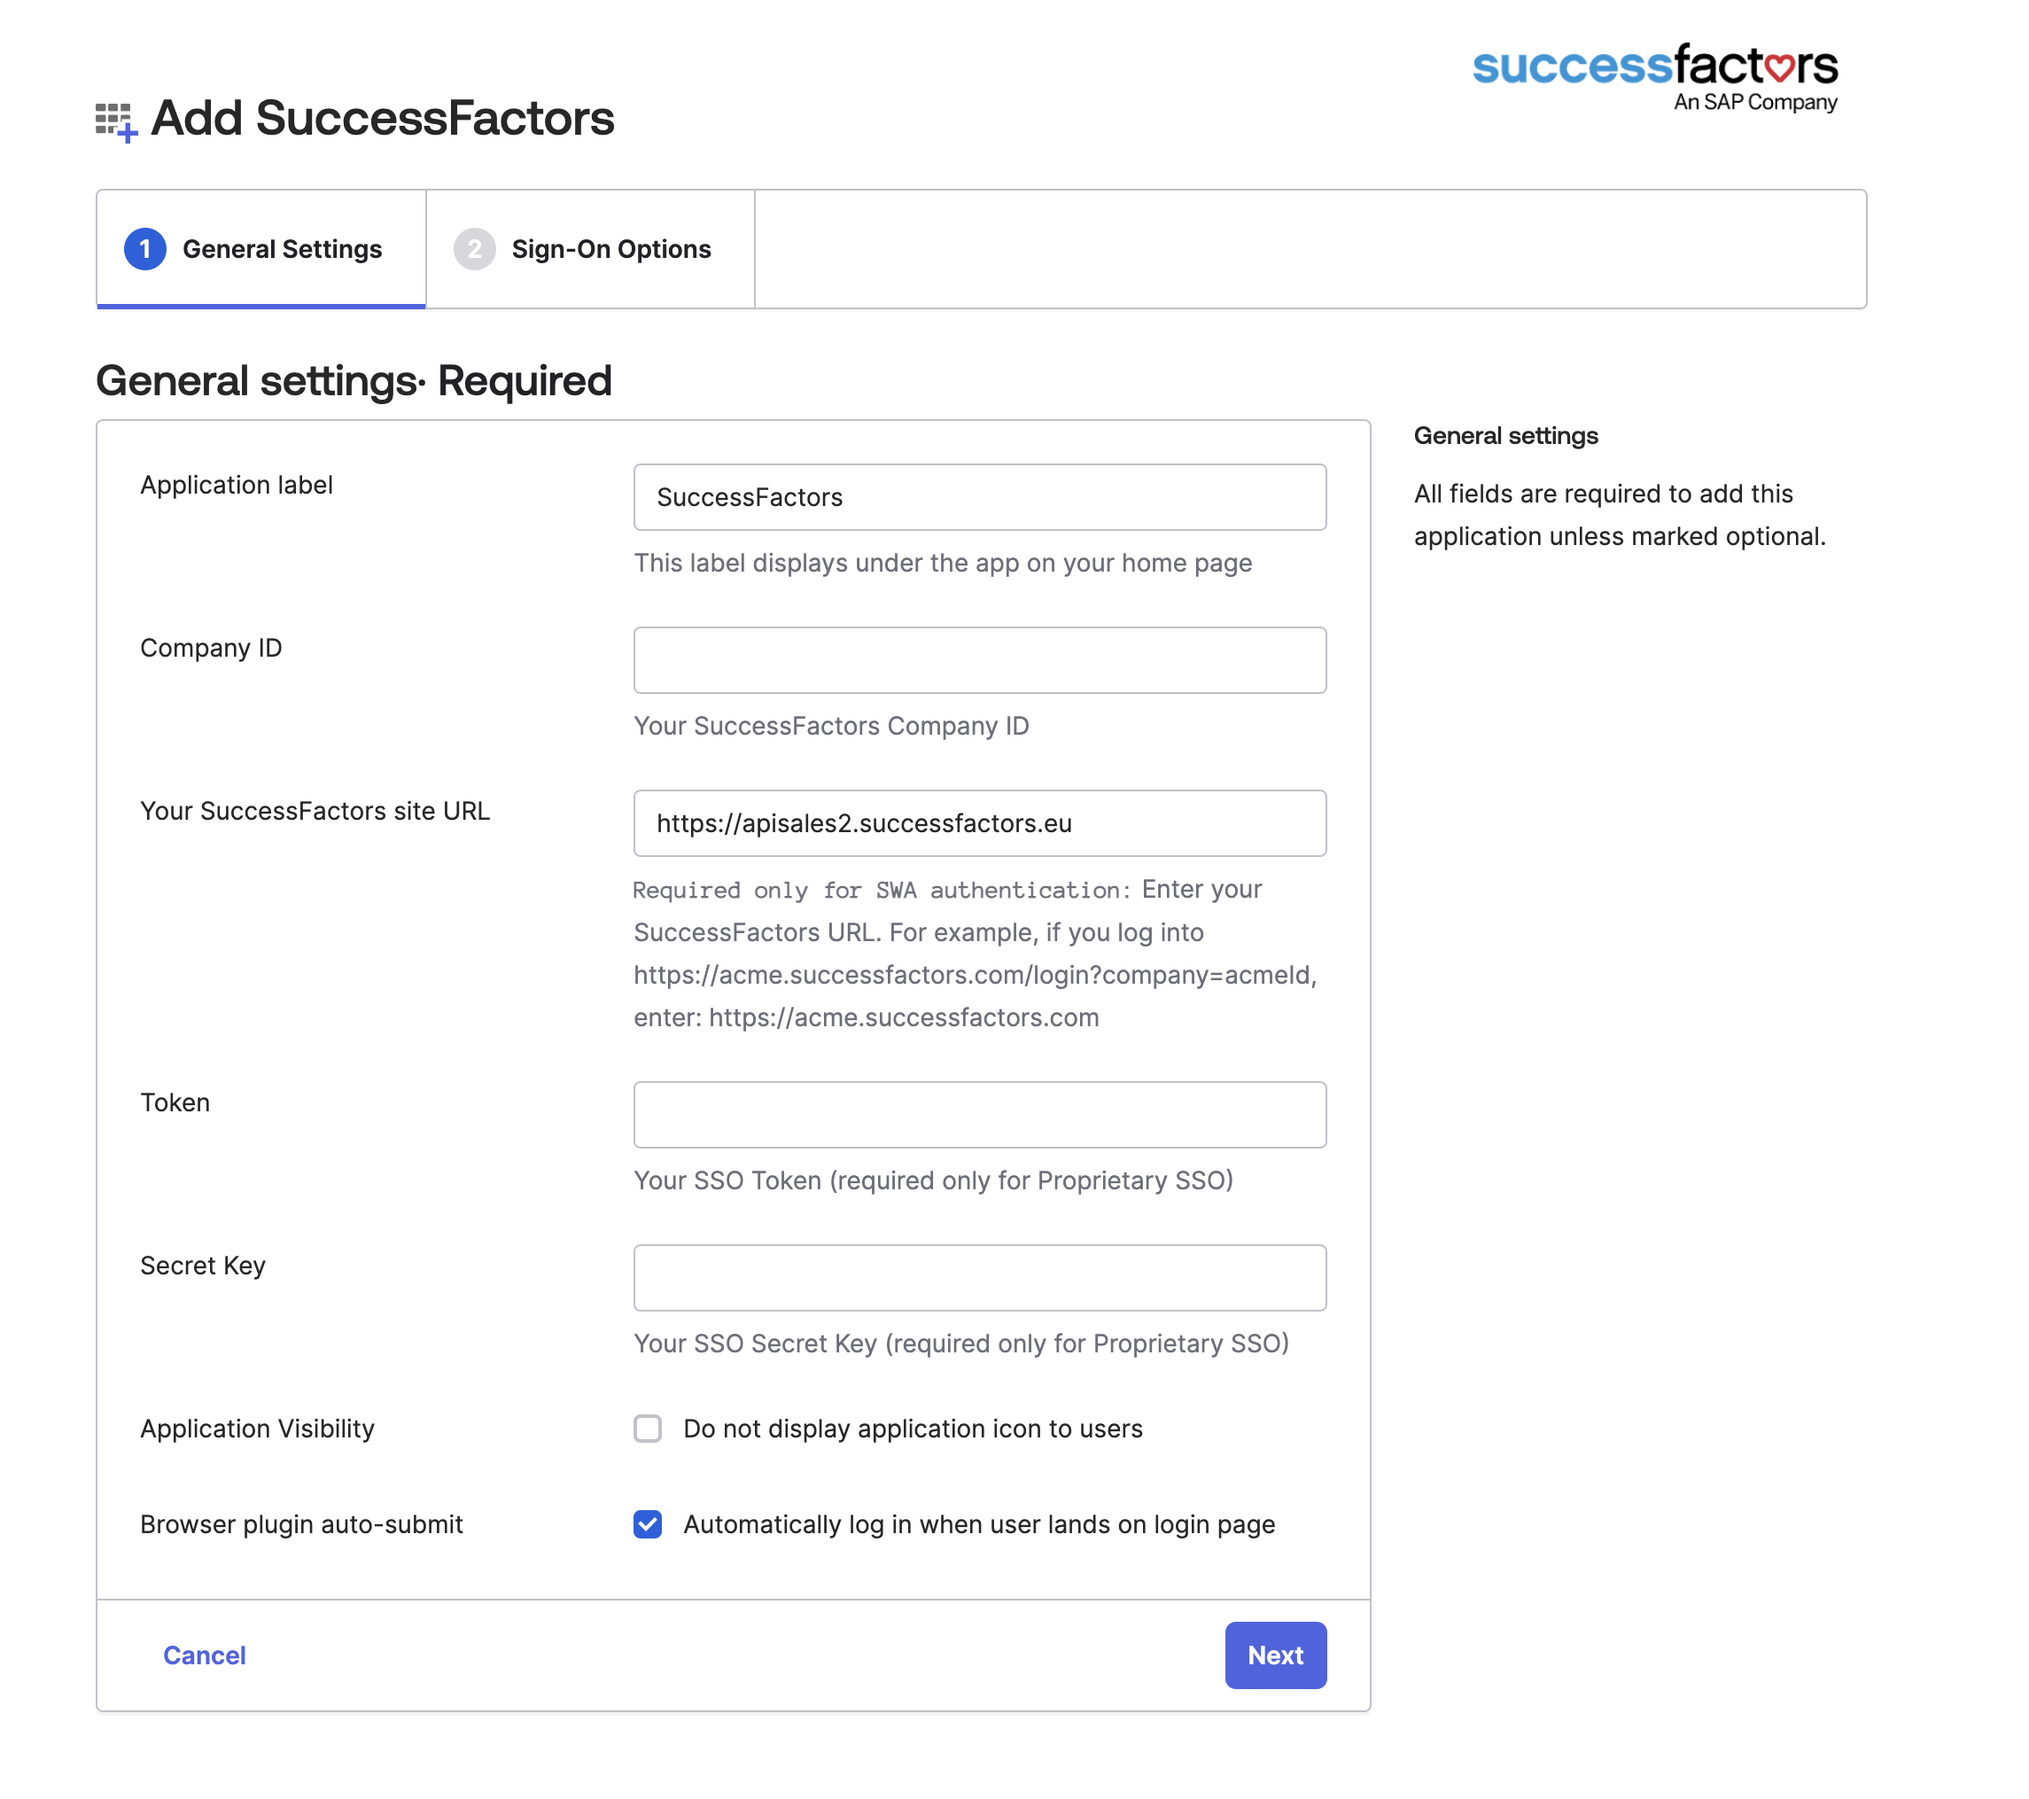
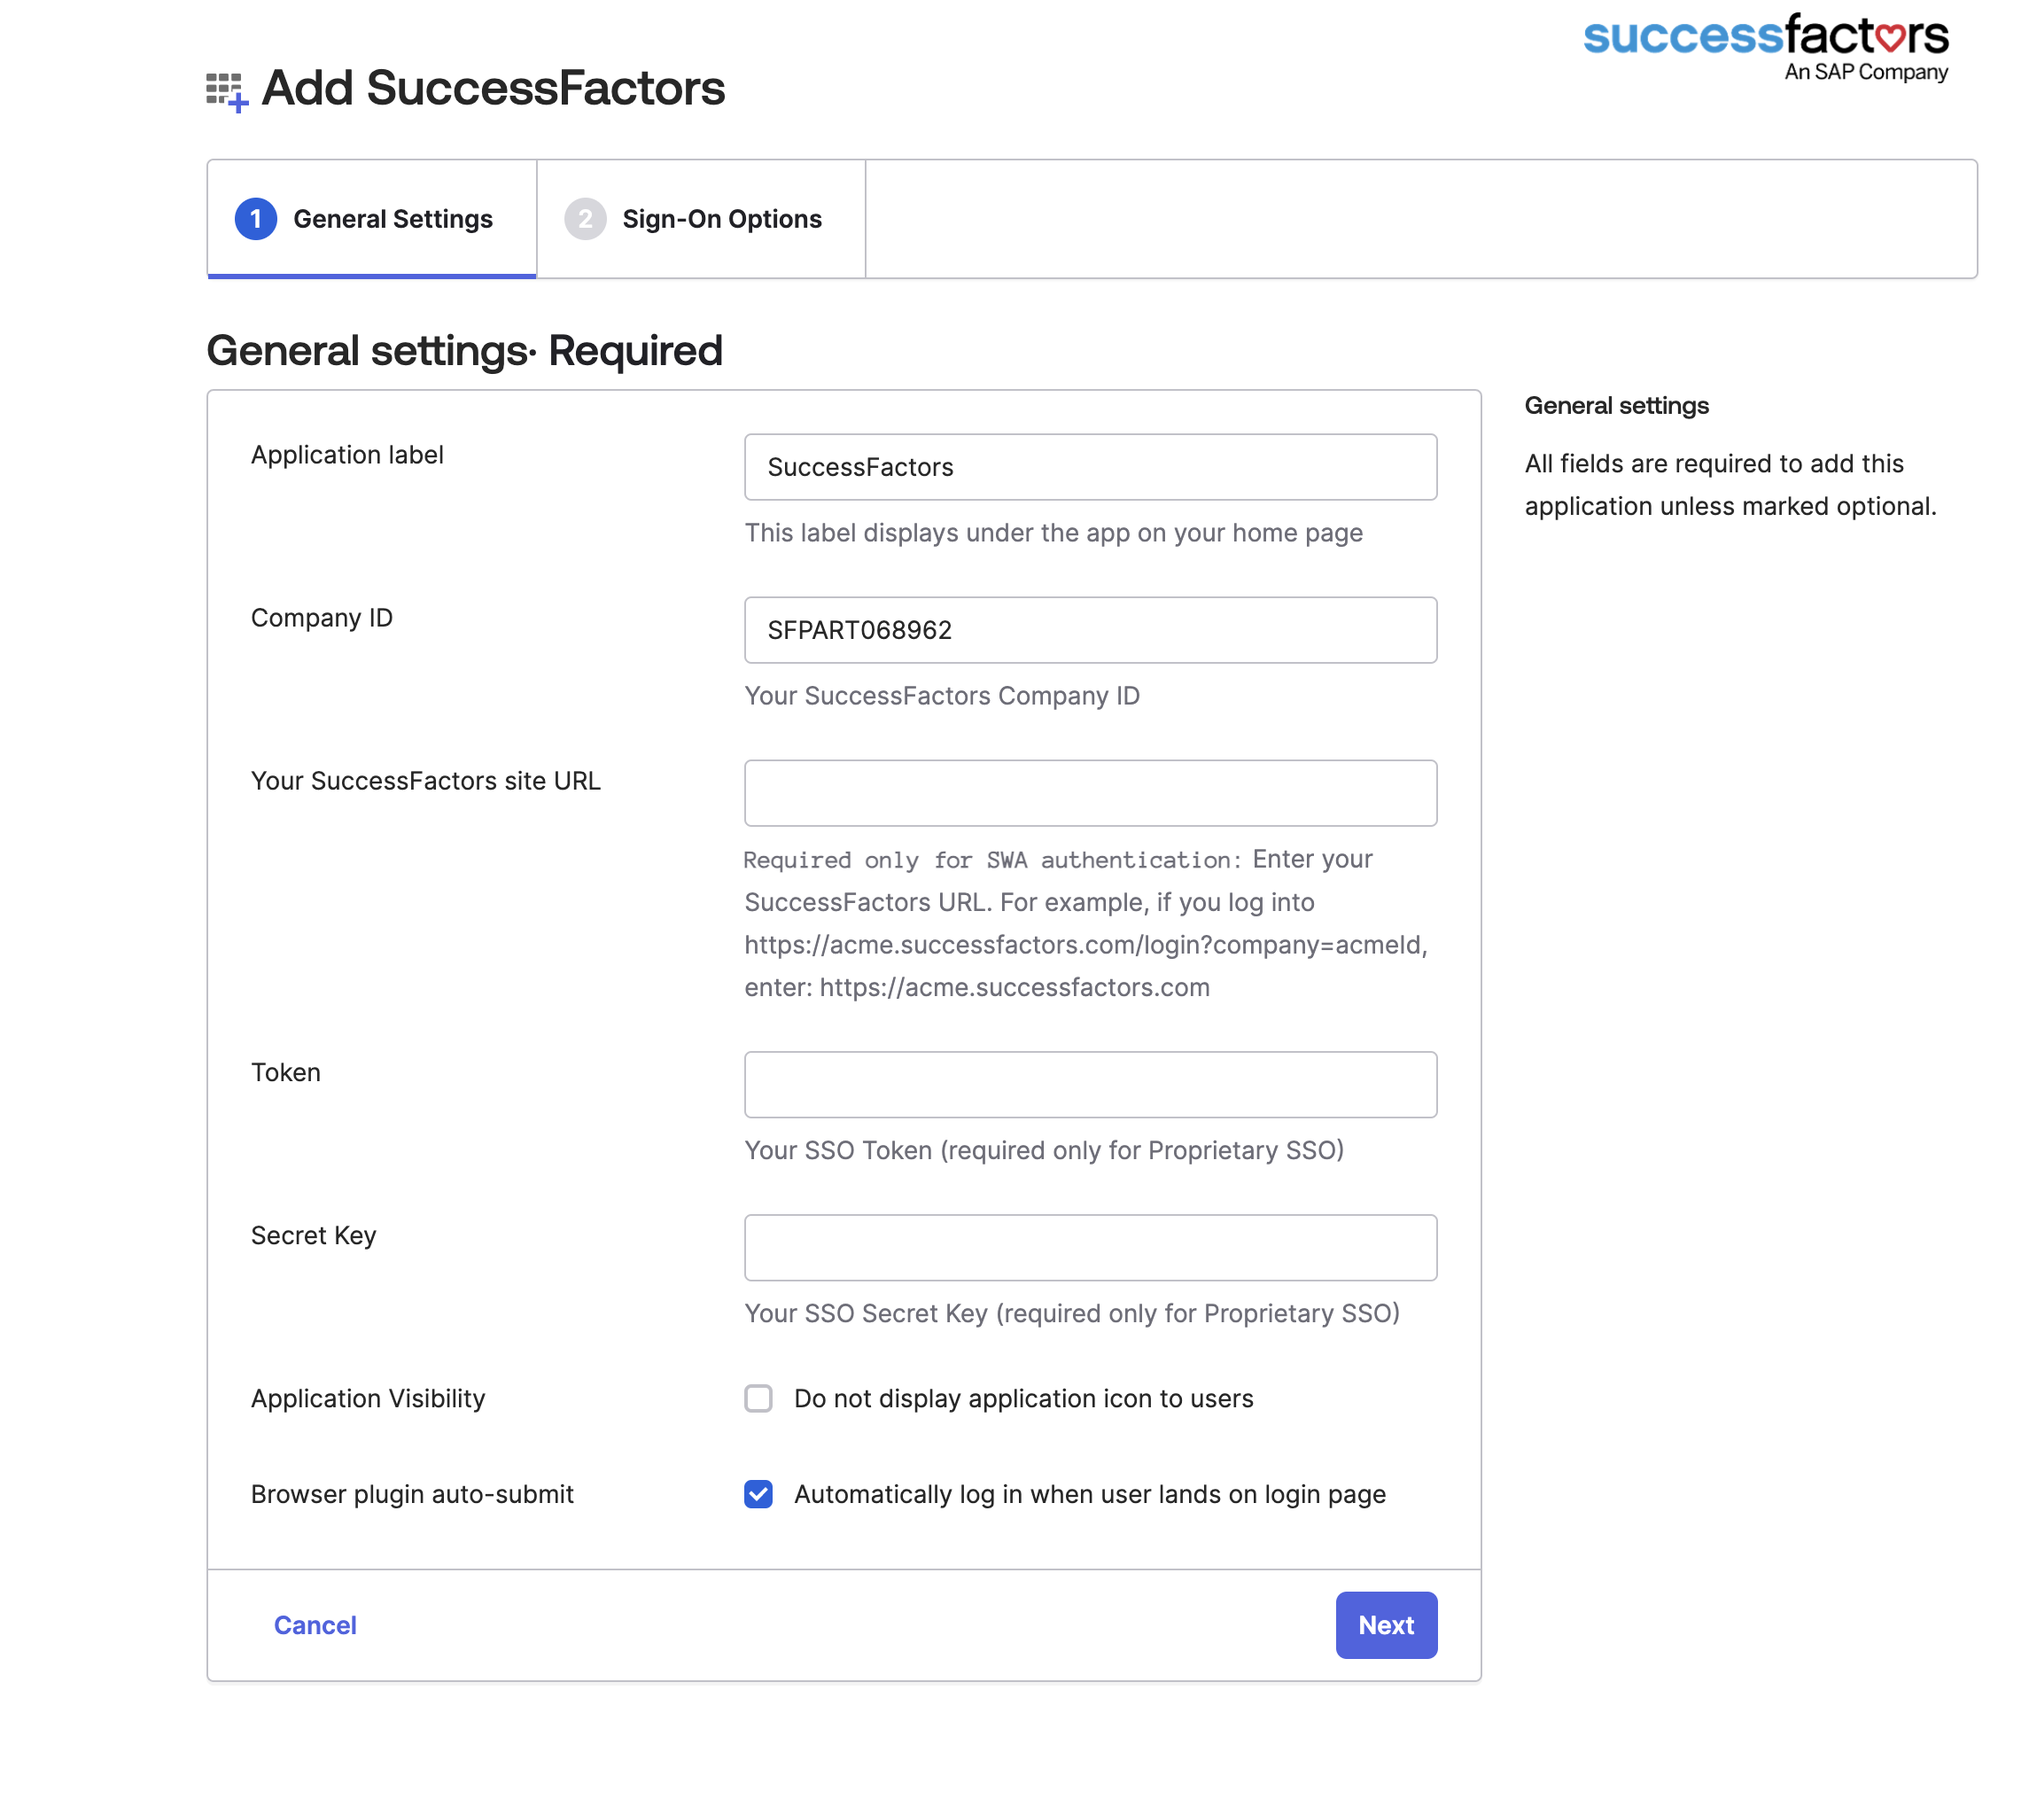
SAP
SAP

diff --git a/003-successfactors.md b/003-successfactors.md
@@ -28,21 +28,20 @@ Okta maintains a specific integration for SAP Success Factors in the Okta Integr
 6. In the **General tab**, copy and paste this company ID **SFPART068962** then click **Next** 
 
    ![alt_text](https://raw.githubusercontent.com/NicolasMiramon/LabGuide/main/images/010/image06.png "image_tooltip")
-
 ```
 Company ID = SFPART068962
 
 ```
 
-7. Select SAML 2.0 then click **Save**.
+1. Select SAML 2.0 then click on **Done**.
 
    ![alt_text](https://raw.githubusercontent.com/NicolasMiramon/LabGuide/main/images/010/image06.png "image_tooltip")
 
-8. Now you need to configure the provisioning in order to push users from SAP to Okta. 
+2. Now you need to configure the provisioning in order to push users from SAP to Okta.
+   
    Go to the **Provisioning** tab, click on **Configure API Integration**, click on **Enable API Integration**, enter the base URL, admin username and admin password (you can find them below) then click on **Test API Credentials**. If the test result is green, click on **Save**
-
-   [!Warning]  
-   > **Please copy and paste the admin password from this lab into Okta in order to avoid locking out the account**
+   
+   > **PLEASE COPY AND PASTE THE ADMIN PASSWORD FROM THIS LAB INTO OKTA TO AVOID LOCKING OUT THE ACCOUNT**
 
    ![alt_text](https://raw.githubusercontent.com/NicolasMiramon/LabGuide/main/images/010/image08.png "image_tooltip")
 
@@ -67,48 +66,21 @@ Import Groups                            checked
 ```
 
 
-1. The "Schedule Import" is being configured for "once a day" in HRM-SuccessFactors.okta.com.
+9. In this section, you will configure the connector in order to customize the first name and last name of the SAP user before importing it into Okta.
 
-For the best experience, create your own SuccessFactors provisioning with your own Okta tenant so that you can perform the manual import to verify the new employee that you created in SuccessFactors.com tenant. 
+   Go to **Provisioning** > **To Okta**, scroll down to the **Okta Attributes Mapping** section,  click on the pencil next to First Name, choose **Expression** from the attribute value then copy the expression language below and click on **Save**. Do the same thing for Last Name.
 
-Please do not configure "Schedule Import" in your own Okta tenant.
-
-   ![alt_text](https://raw.githubusercontent.com/NicolasMiramon/LabGuide/main/images/010/image03.png "image_tooltip")
-
-9. Complete the attribute mapping using the information below;
-   In order to adjust profile mapping navigate to Map Profile attributes [Directory → Profile Editor → Successfactors → 'Successfactors to Okta' mapping]
 
 
 ```
-Login:
-
-String.stringContains(appuser.person___logon_user_name, "@") ?
-   appuser.person___logon_user_name : appuser.person___personal_information___first_name +
-   "." + appuser.person___personal_information___last_name + "@" + org.subdomain + ".com"
-
-Okta UserName Format:
-(Under 'Provisioning' -> To Okta -> 'General' -> Okta Username format -> Select 'Custom'):
-
- String.stringContains(appuser.person___logon_user_name, "@") ? appuser.person___logon_user_name :
-   appuser.person___logon_user_name + "@" + org.subdomain + ".com"
-
-
 FirstName:
- String.len(String.removeSpaces(appuser.person___personal_information___first_name)) > 0 ?
-  appuser.person___personal_information___first_name : "F_" + appuser.person___logon_user_name
+ String.len(String.removeSpaces(appuser.firstName)) > 0 ? appuser.firstName : "F_" + appuser.userName
 
 LastName:
- String.len(String.removeSpaces(appuser.person___personal_information___last_name)) > 0 ? 
-  appuser.person___personal_information___last_name : "L_" + appuser.person___logon_user_name
-
-
-Email:
- String.len(String.removeSpaces(appuser.person___email_information___email_address)) > 0 ?    
-  appuser.person___email_information___email_address : appuser.person___logon_user_name + "@" + org.subdomain + ".com"
-
+ String.len(String.removeSpaces(appuser.lastName)) > 0 ? appuser.lastName : "L_" + appuser.userName
 ```
 
-10. Search for user XXXXX and selct the check box to only import this user from SAP Success Factors to your Okta Org
+10.  Search for user XXXXX and selct the check box to only import this user from SAP Success Factors to your Okta Org
     
     ***IMPORTANT: DO NOT IMPORT ALL USERS FROM SAP SUCCESS FACTORS***
 
